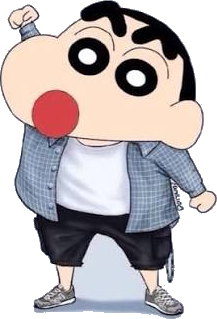
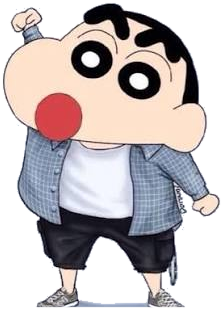
feat: replace celebrate animation with authentic Shinchan streetwear character cutout and victory fist-pump animation

diff --git a/index.html b/index.html
@@ -17,7 +17,9 @@
   <link href="https://fonts.googleapis.com/css2?family=Bangers&family=Fredoka:wght@400;500;600;700&family=Permanent+Marker&family=Poppins:wght@300;400;500;600;700;800;900&display=swap" rel="stylesheet">
 
   <!-- Core Stylesheet -->
-  <link rel="stylesheet" href="css/style.css?v=24">
+  <link rel="stylesheet" href="css/style.css?v=25">
+  <!-- Preload Authentic Shinchan Streetwear Character -->
+  <link rel="preload" as="image" href="img/shinchan_streetwear_cutout.png?v=9">
 
   <!-- Three.js CDN -->
   <script src="https://cdnjs.cloudflare.com/ajax/libs/three.js/r128/three.min.js"></script>
@@ -351,142 +353,9 @@
 </svg>
               </div>
 
-              <!-- State 2: Shinchan Celebrating in Streetwear (Exact photo pose, 100% INLINE SVG!) -->
+              <!-- State 2: Shinchan Celebrating in Streetwear (Exact authentic character from attached photo!) -->
               <div class="shinchan-pose-celebrate" id="shinchan-pose-celebrate">
-                <svg xmlns="http://www.w3.org/2000/svg" viewBox="0 0 200 260" width="100%" height="100%" class="streetwear-svg-canvas">
-  <defs>
-    <filter id="street-shadow" x="-20%" y="-20%" width="140%" height="140%">
-      <feDropShadow dx="3" dy="4" stdDeviation="0" flood-color="#000000"/>
-    </filter>
-    <pattern id="street-plaid" width="10" height="10" patternUnits="userSpaceOnUse">
-      <rect width="10" height="10" fill="#78909C"/>
-      <path d="M 0 5 L 10 5 M 5 0 L 5 10" stroke="#455A64" stroke-width="2"/>
-      <path d="M 0 0 L 10 10 M 10 0 L 0 10" stroke="#37474F" stroke-width="0.8" opacity="0.3"/>
-    </pattern>
-  </defs>
-
-  <!-- Whole Shinchan Body Group -->
-  <g class="streetwear-body" filter="url(#street-shadow)">
-
-    <!-- Shadow under shoes -->
-    <ellipse cx="100" cy="245" rx="55" ry="10" fill="#000000" opacity="0.25"/>
-
-    <!-- Left Leg (Straight Stance) -->
-    <g class="street-leg-left">
-      <!-- Black Cargo Short Leg -->
-      <path d="M 68 152 L 64 185 L 88 185 L 94 152 Z" 
-            fill="#212529" stroke="#000000" stroke-width="3" stroke-linejoin="round"/>
-      <!-- Calf -->
-      <path d="M 72 185 L 70 215 C 70 220 80 220 82 215 L 84 185 Z" 
-            fill="#FEB481" stroke="#000000" stroke-width="3"/>
-      <!-- Grey Streetwear Sneaker with laces -->
-      <ellipse cx="76" cy="225" rx="16" ry="9" fill="#9E9E9E" stroke="#000000" stroke-width="3"/>
-      <path d="M 64 225 Q 76 229 88 225" stroke="#000000" stroke-width="2" fill="none"/>
-      <rect x="66" y="228" width="20" height="4" rx="2" fill="#FFFFFF" stroke="#000000" stroke-width="1.5"/>
-    </g>
-
-    <!-- Right Leg (Slightly Angled Out) -->
-    <g class="street-leg-right">
-      <!-- Black Cargo Short Leg -->
-      <path d="M 106 152 L 112 185 L 136 185 L 132 152 Z" 
-            fill="#212529" stroke="#000000" stroke-width="3" stroke-linejoin="round"/>
-      <!-- Calf -->
-      <path d="M 116 185 L 118 215 C 118 220 128 220 130 215 L 128 185 Z" 
-            fill="#FEB481" stroke="#000000" stroke-width="3"/>
-      <!-- Grey Streetwear Sneaker with laces -->
-      <ellipse cx="126" cy="225" rx="16" ry="9" fill="#9E9E9E" stroke="#000000" stroke-width="3"/>
-      <path d="M 114 225 Q 126 229 138 225" stroke="#000000" stroke-width="2" fill="none"/>
-      <rect x="116" y="228" width="20" height="4" rx="2" fill="#FFFFFF" stroke="#000000" stroke-width="1.5"/>
-    </g>
-
-    <!-- Black Cargo Shorts Waist & Crotch -->
-    <path d="M 64 140 C 64 156 78 158 100 158 C 122 158 136 156 136 140 Z" 
-          fill="#212529" stroke="#000000" stroke-width="3.5" stroke-linejoin="round"/>
-
-    <!-- White Undershirt -->
-    <path d="M 72 105 L 128 105 L 126 148 L 74 148 Z" 
-          fill="#FFFFFF" stroke="#000000" stroke-width="3" stroke-linejoin="round"/>
-
-    <!-- Open Plaid Flannel Shirt (Jacket Left Panel) -->
-    <path d="M 52 102 C 52 120 54 145 68 152 L 78 150 L 76 104 Z" 
-          fill="url(#street-plaid)" stroke="#000000" stroke-width="3" stroke-linejoin="round"/>
-
-    <!-- Open Plaid Flannel Shirt (Jacket Right Panel) -->
-    <path d="M 148 102 C 148 120 146 145 132 152 L 122 150 L 124 104 Z" 
-          fill="url(#street-plaid)" stroke="#000000" stroke-width="3" stroke-linejoin="round"/>
-
-    <!-- Left Arm: Casually Clenched Down -->
-    <g class="street-arm-left">
-      <!-- Sleeve -->
-      <path d="M 54 104 L 40 126 L 52 134 L 66 112 Z" 
-            fill="url(#street-plaid)" stroke="#000000" stroke-width="3" stroke-linejoin="round"/>
-      <!-- Forearm & Clenched Fist -->
-      <path d="M 42 128 L 38 142" stroke="#FEB481" stroke-width="12" stroke-linecap="round"/>
-      <circle cx="38" cy="144" r="8" fill="#FEB481" stroke="#000000" stroke-width="2.5"/>
-    </g>
-
-    <!-- RIGHT ARM: RAISED HIGH IN AIR WITH PUMPING FIST ✊ (Exact pose from photo!) -->
-    <g class="street-arm-right-fist">
-      <!-- Upper Arm & Sleeve reaching up -->
-      <path d="M 146 104 L 160 76 L 146 68 L 132 96 Z" 
-            fill="url(#street-plaid)" stroke="#000000" stroke-width="3" stroke-linejoin="round"/>
-      <!-- Forearm extending upwards -->
-      <path d="M 154 74 L 162 48" stroke="#FEB481" stroke-width="13" stroke-linecap="round"/>
-      <!-- Clenched Victory Fist ✊ -->
-      <ellipse cx="163" cy="42" rx="9" ry="10" fill="#FEB481" stroke="#000000" stroke-width="2.8"/>
-      <!-- Folded Knuckles -->
-      <path d="M 158 38 Q 164 36 170 40" stroke="#000000" stroke-width="2" fill="none"/>
-      <path d="M 156 42 Q 162 42 168 45" stroke="#000000" stroke-width="1.8" fill="none"/>
-    </g>
-
-    <!-- Shinchan Head (From photo: iconic chubby cheek potato shape) -->
-    <path id="street-head" 
-          d="M 46 72 C 30 65 28 38 38 22 C 48 6 70 2 99 4 C 129 6 152 22 150 45 C 148 62 134 68 144 82 C 152 94 140 110 118 110 C 96 110 66 100 46 72 Z" 
-          fill="#FEB481" stroke="#000000" stroke-width="3.8" stroke-linejoin="round" stroke-linecap="round"/>
-
-    <!-- Shiny Jet Black Hair -->
-    <path d="M 42 26 C 50 10 70 4 99 4 C 128 4 149 18 150 40 C 142 22 122 10 99 10 C 74 10 54 16 42 26 Z" 
-          fill="#1E1E24" stroke="#000000" stroke-width="2"/>
-    <path d="M 38 22 C 34 32 32 46 39 60 C 36 45 36 32 38 22 Z" fill="#1E1E24"/>
-
-    <!-- Ear -->
-    <path d="M 30 42 C 24 42 24 56 32 58 C 28 52 28 46 30 42 Z" 
-          fill="#FEB481" stroke="#000000" stroke-width="3"/>
-
-    <!-- Rosy Blushing Cheeks -->
-    <ellipse cx="58" cy="72" rx="10" ry="7" fill="#FF7088" opacity="0.85"/>
-    <ellipse cx="128" cy="82" rx="11" ry="8" fill="#FF7088" opacity="0.85"/>
-
-    <!-- Giant Bushy Black Eyebrows -->
-    <g class="street-eyebrow-left">
-      <path d="M 48 28 C 59 12 80 12 86 22 C 78 18 62 18 48 28 Z" 
-            fill="#000000" stroke="#000000" stroke-width="2.5"/>
-    </g>
-    <g class="street-eyebrow-right">
-      <path d="M 96 22 C 106 10 129 12 138 26 C 126 18 112 18 96 22 Z" 
-            fill="#000000" stroke="#000000" stroke-width="2.5"/>
-    </g>
-
-    <!-- Big Wide Anime Eyes with Concentric Pupils (From Photo!) -->
-    <g class="street-eye-left">
-      <ellipse cx="70" cy="38" rx="10" ry="13" fill="#000000"/>
-      <ellipse cx="68" cy="35" rx="4.5" ry="5.5" fill="#FFFFFF"/>
-      <circle cx="72" cy="43" r="1.8" fill="#FFFFFF"/>
-    </g>
-    <g class="street-eye-right">
-      <ellipse cx="112" cy="40" rx="10" ry="13" fill="#000000"/>
-      <ellipse cx="110" cy="37" rx="4.5" ry="5.5" fill="#FFFFFF"/>
-      <circle cx="114" cy="45" r="1.8" fill="#FFFFFF"/>
-    </g>
-
-    <!-- Singing / Shouting Red Circle Mouth (From Photo!) -->
-    <g class="street-mouth-sing">
-      <circle cx="94" cy="68" r="14" fill="#E8222E" stroke="#000000" stroke-width="3"/>
-      <circle cx="94" cy="70" r="7" fill="#880C14"/>
-    </g>
-
-  </g>
-</svg>
+                <img src="img/shinchan_streetwear_cutout.png?v=9" alt="Shinchan Streetwear Celebration" class="shinchan-streetwear-img" width="160" height="225" loading="eager" decoding="sync">
                 <div class="victory-sparks" aria-hidden="true">
                   <span class="spark s1">⭐</span>
                   <span class="spark s2">✨</span>

diff --git a/css/style.css b/css/style.css
@@ -1233,58 +1233,34 @@ a, button, .clickable {
   filter: drop-shadow(4px 6px 0px #000000);
 }
 
-/* Streetwear Inline SVG Canvas - Guaranteed 100% Render! */
-.streetwear-svg-canvas {
+/* Authentic Streetwear Character Cutout (From Attached Photo!) */
+.shinchan-streetwear-img {
   width: 160px;
-  height: 225px;
+  height: auto;
+  max-height: 225px;
   display: block;
-  overflow: visible;
+  object-fit: contain;
+  filter: drop-shadow(4px 6px 0px #000000) drop-shadow(0 0 16px rgba(255, 212, 0, 0.45));
+  animation: streetwearVictoryAction 1.1s infinite alternate cubic-bezier(0.34, 1.35, 0.64, 1);
+  transform-origin: bottom center;
+  user-select: none;
+  pointer-events: none;
+  will-change: transform;
 }
 
-/* Energetic Fist Pump Victory Animation (Exact Action from User's Photo!) */
-.streetwear-body {
-  animation: streetwearBodyBounce 1.2s infinite alternate ease-in-out;
-  transform-origin: 100px 245px;
-}
-
-@keyframes streetwearBodyBounce {
-  0% { transform: translateY(0) rotate(0deg); }
-  50% { transform: translateY(-8px) rotate(-1.5deg); }
-  100% { transform: translateY(1px) rotate(1deg); }
-}
-
-/* Right Arm Pumping Clenched Fist ✊ */
-.street-arm-right-fist {
-  animation: fistPumpArm 0.7s infinite alternate cubic-bezier(0.34, 1.56, 0.64, 1);
-  transform-origin: 146px 104px;
-}
-
-@keyframes fistPumpArm {
-  0% { transform: rotate(0deg) translateY(0); }
-  50% { transform: rotate(-12deg) translateY(-8px) scale(1.08); }
-  100% { transform: rotate(4deg) translateY(2px); }
-}
-
-/* Bushy Eyebrow Wiggle */
-.street-eyebrow-left {
-  animation: eyebrowWiggleLeft 1.5s infinite alternate ease-in-out;
-  transform-origin: 60px 22px;
-}
-.street-eyebrow-right {
-  animation: eyebrowWiggleRight 1.5s infinite alternate ease-in-out;
-  transform-origin: 115px 20px;
-}
-
-/* Singing / Laughing Mouth Pulse */
-.street-mouth-sing {
-  animation: mouthSingPulse 1.1s infinite alternate ease-in-out;
-  transform-origin: 94px 68px;
-}
-
-@keyframes mouthSingPulse {
-  0% { transform: scale(1); }
-  50% { transform: scale(1.15); }
-  100% { transform: scale(0.95); }
+@keyframes streetwearVictoryAction {
+  0% {
+    transform: translateY(0) rotate(0deg) scale(1);
+  }
+  30% {
+    transform: translateY(-6px) rotate(-1.5deg) scale(1.02);
+  }
+  60% {
+    transform: translateY(-16px) rotate(2.5deg) scale(1.04);
+  }
+  100% {
+    transform: translateY(-20px) rotate(-2deg) scale(1.06);
+  }
 }
 
 /* Floating Victory Sparks Around Celebrating Shinchan */
@@ -2707,9 +2683,10 @@ a, button, .clickable {
     width: 160px;
     height: 200px;
   }
-  .streetwear-svg-canvas {
+  .shinchan-streetwear-img {
     width: 145px;
-    height: 200px;
+    height: auto;
+    max-height: 200px;
   }
 
   /* Info Strip Section: 2 columns on tablet with 3rd card spanning */
@@ -4165,9 +4142,10 @@ a, button, .clickable {
     width: 140px;
     height: 180px;
   }
-  .streetwear-svg-canvas {
+  .shinchan-streetwear-img {
     width: 120px;
-    height: 175px;
+    height: auto;
+    max-height: 175px;
   }
   .pull-me-slogan-badge {
     font-size: 0.88rem;
